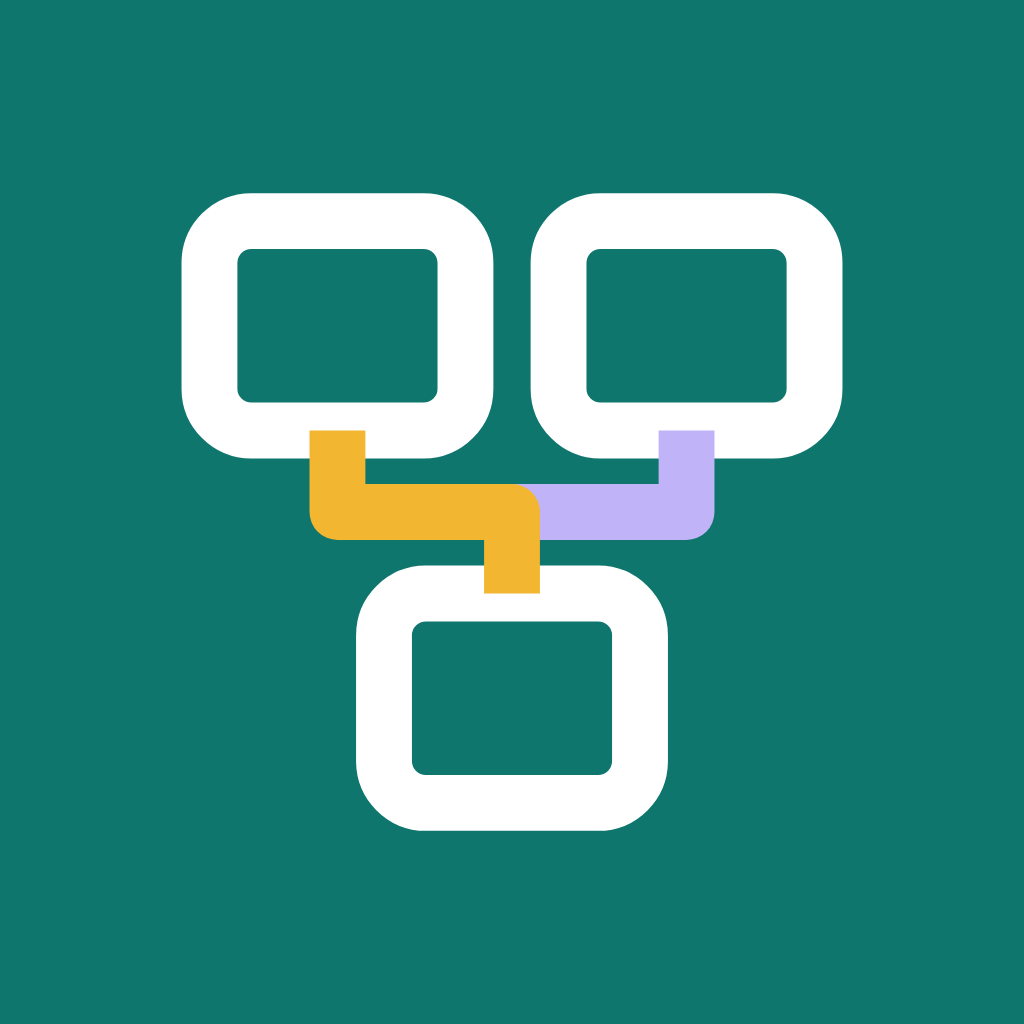
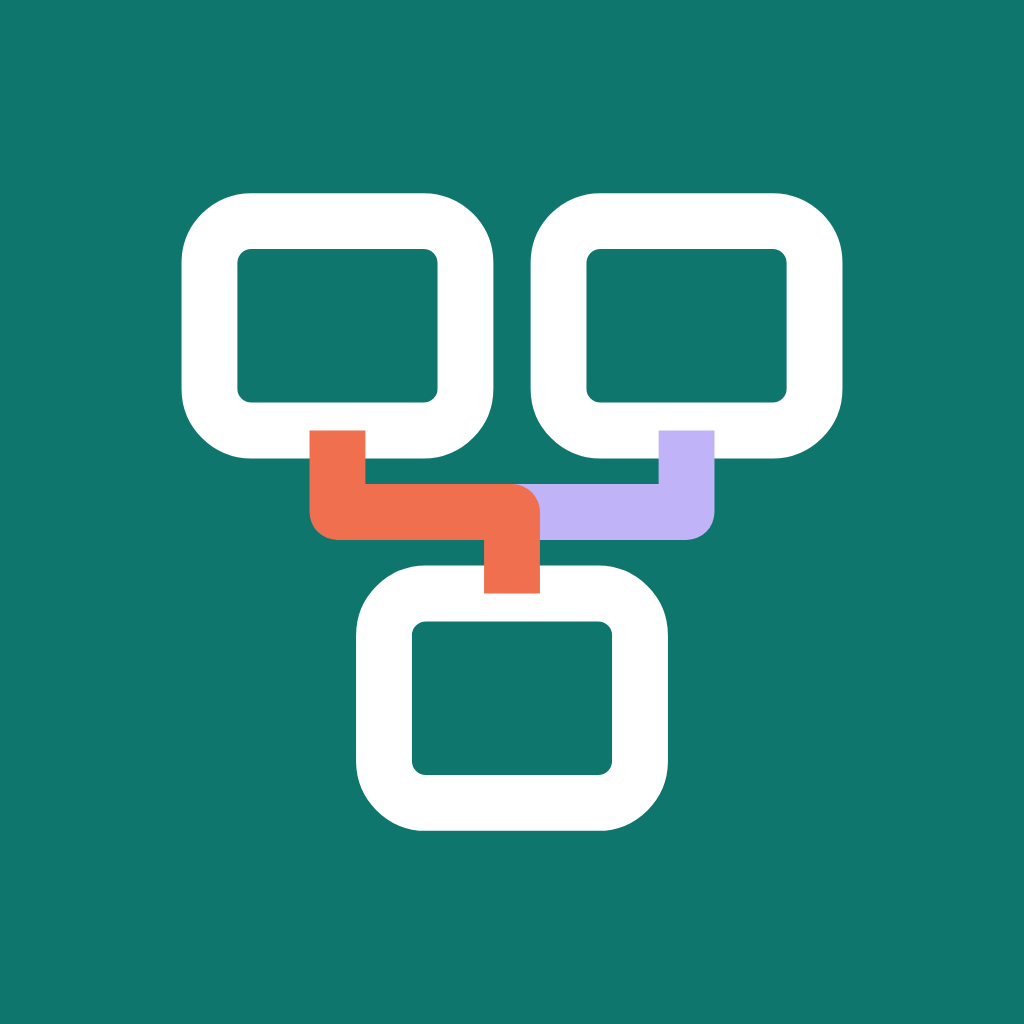
feat: draw requests in coral instead of amber
The amber request color was hard to see on the light theme (line
contrast 1.82 against the recommended 3.0 for graphics), shared its hue
with the in-progress amber, and kept the yellow and purple pairing of
the reference design. Coral sits opposite the teal accent, reaches 2.98,
and stays clearly apart from the violet responses in protan, deutan and
tritan simulations.

- engine: --req, --req-ink, --on-req, --pad-q and --pulse-q for light
  and dark; responses stay violet
- icon.png: request connector in coral to match the header logo
- SKILL.md and data-format.md: describe requests as coral solid lines
- plugin.json: version 0.2.3

Data folders that set these variables in their own css keep their
colors.

Changed region(s): [[0.2812, 0.4062, 0.5312, 0.5938]]

diff --git a/skills/flow-explorer/engine/explorer.html b/skills/flow-explorer/engine/explorer.html
@@ -30,7 +30,7 @@
   --grid:rgba(16,94,84,.05);
   --ink:#1E2B2A; --ink-strong:#0E1918; --ink-2:#33433F; --muted:#566763; --faint:#7A8A86; --fainter:#A6B3AF;
   --tint:#DDEFEB; --btn:#0F766E;
-  --req:#F2B631; --req-ink:#855A00; --on-req:#2F2200;
+  --req:#EF6F4F; --req-ink:#A93A1B; --on-req:#2A0E06;
   --resp:#7656EE; --resp-ink:#5A3FCF;
   --accent:#0D8A7F; --seen:rgba(13,138,127,.34);
   --sel-bg:#E6F4F1; --sel-bd:#0D8A7F; --now:#E3A008;
@@ -39,9 +39,9 @@
   --iso-top:#FBFCFB; --iso-left:#E1E9E6; --iso-right:#C5D3CF; --iso-ln:#2B4541; --iso-gl:#0D8A7F; --iso-scr:#DCEFEA;
   --iso-top2:#EFF4F2; --iso-left2:#D1DDD9; --iso-right2:#B2C4BF; --iso-hl:rgba(255,255,255,.9); --iso-bay:#CBDAD5; --iso-glare:rgba(255,255,255,.55);
   --iso-sh1:rgba(14,40,36,.20);
-  --iso-led:#0D8A7F; --iso-pad:#EDF2F0; --iso-padln:#C7D3CF; --iso-sh:rgba(14,40,36,.10); --pad-q:rgba(242,182,49,.22); --pad-s:rgba(118,86,238,.18);
+  --iso-led:#0D8A7F; --iso-pad:#EDF2F0; --iso-padln:#C7D3CF; --iso-sh:rgba(14,40,36,.10); --pad-q:rgba(239,111,79,.22); --pad-s:rgba(118,86,238,.18);
   --shadow:rgba(14,40,36,.16);
-  --pulse-a:rgba(13,138,127,.45); --pulse-q:rgba(242,182,49,.55); --pulse-s:rgba(118,86,238,.5); --pulse-play:rgba(15,118,110,.45);
+  --pulse-a:rgba(13,138,127,.45); --pulse-q:rgba(239,111,79,.55); --pulse-s:rgba(118,86,238,.5); --pulse-play:rgba(15,118,110,.45);
   --font:"Iosevka", "FlowHangul", "FlowJapanese", "Malgun Gothic", "Apple SD Gothic Neo", "Noto Sans KR", ui-monospace, monospace;
 }
 /* 일본어 화면: 가나·한자는 일본어 글꼴로(한국어 글꼴의 한자는 모양이 다르다) */
@@ -53,7 +53,7 @@ html[lang="ja"] { --font:"Iosevka", "FlowJapanese", "FlowHangul", "Yu Gothic UI"
   --grid:rgba(110,200,185,.06);
   --ink:#C5D6D2; --ink-strong:#FFFFFF; --ink-2:#ABBEB9; --muted:#8BA19C; --faint:#6C837E; --fainter:#44605A;
   --tint:#173430; --btn:#0E7F75;
-  --req:#F5C24C; --req-ink:#FFD47A; --on-req:#221800;
+  --req:#FF8A6E; --req-ink:#FFB09C; --on-req:#2A0E06;
   --resp:#9076F2; --resp-ink:#B7A4F8;
   --accent:#2CCDB8; --seen:rgba(44,205,184,.38);
   --sel-bg:#14302B; --sel-bd:#2CCDB8; --now:#E3A008;
@@ -62,7 +62,7 @@ html[lang="ja"] { --font:"Iosevka", "FlowJapanese", "FlowHangul", "Yu Gothic UI"
   --iso-top:#22403B; --iso-left:#182E2A; --iso-right:#11221F; --iso-ln:#8ED1C5; --iso-gl:#D2F2EC; --iso-scr:#1B4740;
   --iso-top2:#1E3935; --iso-left2:#142824; --iso-right2:#0D1B19; --iso-hl:rgba(170,235,222,.42); --iso-bay:#0C1A18; --iso-glare:rgba(150,230,215,.2);
   --iso-sh1:rgba(0,0,0,.5);
-  --iso-led:#2CCDB8; --iso-pad:#111C1A; --iso-padln:#29433E; --iso-sh:rgba(0,0,0,.35); --pad-q:rgba(245,194,76,.20); --pad-s:rgba(144,118,242,.22);
+  --iso-led:#2CCDB8; --iso-pad:#111C1A; --iso-padln:#29433E; --iso-sh:rgba(0,0,0,.35); --pad-q:rgba(255,138,110,.20); --pad-s:rgba(144,118,242,.22);
   --shadow:rgba(0,0,0,.45);
 }
 
@@ -201,7 +201,7 @@ html[lang="ja"] .brand h1 { font-size:21px; letter-spacing:.02em; }   /* 전각 
 .pn { position:relative; z-index:1; display:inline-grid; place-items:center; width:19px; height:19px; border-radius:50%; background:var(--fainter); color:#fff; font-size:9.5px; font-weight:800; margin-top:1px; }
 .gr li.done .pn { background:var(--ok); }
 .gr li.cur { background:var(--tint); }
-/* 번호 원: 요청은 노랑, 응답은 보라로 꽉 채우고 숫자는 흰색 */
+/* 번호 원: 요청은 코랄, 응답은 보라로 꽉 채우고 숫자는 흰색 */
 .gr li.cur .pn { background:var(--req); border:0; color:#fff; }
 .gr li.cur.s .pn { background:var(--resp); }
 .gr li.cur.arrived .pn, .gr li.cur.s.arrived .pn { background:var(--ok); border:0; color:#fff; animation:none; }

diff --git a/skills/flow-explorer/SKILL.md b/skills/flow-explorer/SKILL.md
@@ -46,7 +46,7 @@ Python 3.10 이상과 `fonttools`, `brotli`, `playwright`(검사용 Chromium 포
 ## 규칙
 
 - 자료는 그 자체로 완성되어야 한다. 화면에 출처, 커밋, 다른 파일 안내, 만든 방법 같은 문구를 넣지 않는다.
-- 요청과 응답에 각각 번호를 매긴다(시간 순, 같은 번호를 쓰지 않음). 요청은 노랑 실선, 응답은 보라 점선으로 엔진이 그린다.
+- 요청과 응답에 각각 번호를 매긴다(시간 순, 같은 번호를 쓰지 않음). 요청은 코랄 실선, 응답은 보라 점선으로 엔진이 그린다.
 - 방화벽은 번호만 쓰지 않고 `FWR`에 여는 통신과 이유를 적는다. 같은 VM 안은 `IN`, 같은 프로세스 안은 `"—"`, 우리 망 밖은 `"인터넷"`.
 - 같은 프로세스 안의 호출은 패킷이 아니므로 패킷 프로토콜을 `JVM`(또는 `META.inproc`에 적은 이름)으로 쓴다.
 - 데이터 파일은 값만 선언한다. 엔진과 같이 쓰는 이름은 `var`로 선언한다(`const`·`let`은 엔진의 선언과 부딪힌다).

diff --git a/skills/flow-explorer/references/data-format.md b/skills/flow-explorer/references/data-format.md
@@ -143,7 +143,7 @@ var SC = [
 |---|---|
 | `n` | 번호. 요청과 응답에 각각 번호를 매김(같은 번호를 쓰지 않음) |
 | `ph` | 흐름 단계(`PH`의 키). 바뀌면 목록에 단계 제목이 나옴 |
-| `k` | `q` 요청(노랑 실선) / `s` 응답(보라 점선) |
+| `k` | `q` 요청(코랄 실선) / `s` 응답(보라 점선) |
 | `f`, `t` | 보내는 노드, 받는 노드 |
 | `l` | 지나가는 선(`TOPO.L`의 키) |
 | `lab` | 단계 이름(목록·말풍선) |
